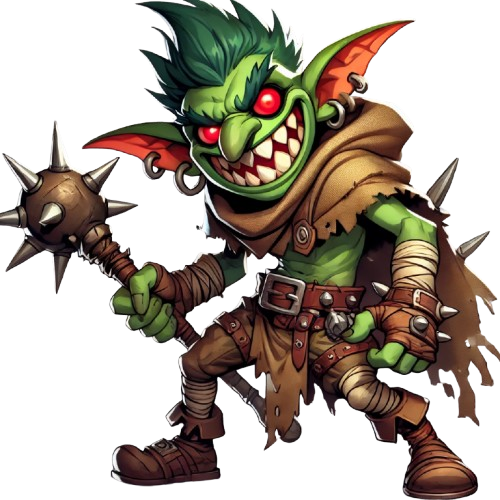
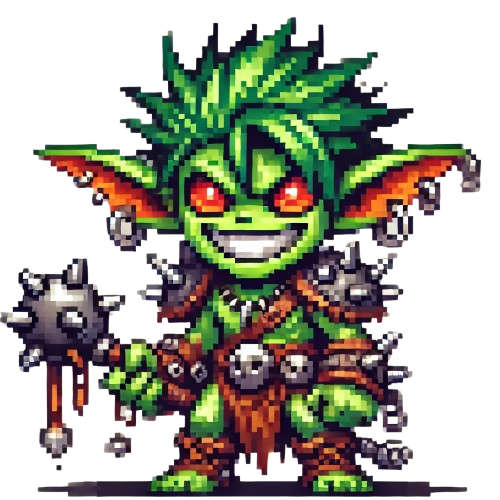
new image & fix bug

diff --git a/public/assets/css/output.css b/public/assets/css/output.css
@@ -614,6 +614,43 @@ video {
   width: 100%;
 }
 
+@keyframes bounce {
+  0%, 100% {
+    transform: translateY(-25%);
+    animation-timing-function: cubic-bezier(0.8,0,1,1);
+  }
+
+  50% {
+    transform: none;
+    animation-timing-function: cubic-bezier(0,0,0.2,1);
+  }
+}
+
+.animate-bounce {
+  animation: bounce 1s infinite;
+}
+
+@keyframes ping {
+  75%, 100% {
+    transform: scale(2);
+    opacity: 0;
+  }
+}
+
+.animate-ping {
+  animation: ping 1s cubic-bezier(0, 0, 0.2, 1) infinite;
+}
+
+@keyframes pulse {
+  50% {
+    opacity: .5;
+  }
+}
+
+.animate-pulse {
+  animation: pulse 2s cubic-bezier(0.4, 0, 0.6, 1) infinite;
+}
+
 .flex-col {
   flex-direction: column;
 }
@@ -667,6 +704,11 @@ video {
   border-color: rgb(0 0 0 / var(--tw-border-opacity, 1));
 }
 
+.border-white {
+  --tw-border-opacity: 1;
+  border-color: rgb(255 255 255 / var(--tw-border-opacity, 1));
+}
+
 .bg-blue-500 {
   --tw-bg-opacity: 1;
   background-color: rgb(59 130 246 / var(--tw-bg-opacity, 1));
@@ -682,13 +724,62 @@ video {
   background-color: rgb(248 113 113 / var(--tw-bg-opacity, 1));
 }
 
+.bg-red-600 {
+  --tw-bg-opacity: 1;
+  background-color: rgb(220 38 38 / var(--tw-bg-opacity, 1));
+}
+
 .bg-slate-900 {
   --tw-bg-opacity: 1;
   background-color: rgb(15 23 42 / var(--tw-bg-opacity, 1));
 }
 
+.bg-\[url\(\'\.\/assets\/image\/decor-main\.gif\'\)\] {
+  background-image: url('./assets/image/decor-main.gif');
+}
+
+.bg-\[url\(\'\.\.\/assets\/image\/decor-main\.gif\'\)\] {
+  background-image: url('../assets/image/decor-main.gif');
+}
+
+.bg-\[url\(\'\.\.\/\/image\/decor-main\.gif\'\)\] {
+  background-image: url('..//image/decor-main.gif');
+}
+
+.bg-\[url\(\'\.\.\/image\/decor-main\.gif\'\)\] {
+  background-image: url('../image/decor-main.gif');
+}
+
+.bg-\[url\(\'\.\.\/image\/decors-main\.gif\'\)\] {
+  background-image: url('../image/decors-main.gif');
+}
+
+.bg-\[url\(\'\.\.\/image\/decors-\.gif\'\)\] {
+  background-image: url('../image/decors-.gif');
+}
+
+.bg-\[url\(\'\.\.\/image\/decors-combat\.gif\'\)\] {
+  background-image: url('../image/decors-combat.gif');
+}
+
+.bg-cover {
+  background-size: cover;
+}
+
+.bg-center {
+  background-position: center;
+}
+
+.bg-repeat {
+  background-repeat: repeat;
+}
+
 .p-3 {
   padding: 0.75rem;
+}
+
+.p-6 {
+  padding: 1.5rem;
 }
 
 .p-7 {
@@ -761,6 +852,10 @@ video {
   --tw-scale-x: 1.25;
   --tw-scale-y: 1.25;
   transform: translate(var(--tw-translate-x), var(--tw-translate-y)) rotate(var(--tw-rotate)) skewX(var(--tw-skew-x)) skewY(var(--tw-skew-y)) scaleX(var(--tw-scale-x)) scaleY(var(--tw-scale-y));
+}
+
+.hover\:cursor-pointer:hover {
+  cursor: pointer;
 }
 
 .hover\:bg-slate-500:hover {

diff --git a/tailwind.config.js b/tailwind.config.js
@@ -6,7 +6,11 @@ module.exports = {
     "./public/**/**/*.php",
     ],
   theme: {
-    extend: {},
+    extend: {
+      'backgroundImage': {
+        'main': "./assets/image/decor-main.gif"
+      }
+    },
   },
   plugins: [],
 }

diff --git a/public/mainpage.php b/public/mainpage.php
@@ -12,13 +12,20 @@ include_once "./assets/headerfooter/header.php";
 
 ?>
 
+<body class="bg-center bg-[url('../image/decor-main.gif')] bg-cover">
+<header class="flex justify-center pt-3">
+    <img class="w-[6%]" src="./assets/image/logo.png" alt="">
+</header>
+
+
+
 <main class="flex w-full items-center">
     <div class="w-[70%] pt-20 justify-start gap-8 flex"> <!-- Partie gauche -->
         <div class="flex flex-col items-center">
-            <img class="w-[50%]" src="<?= $hero->getUrl_img() ?>" alt="<?= htmlspecialchars($hero->getName()) ?>">
-            <p class="text-6xl font-extrabold"><?= htmlspecialchars($hero->getName()) ?></p>
-            <div class="border-2 w-[50%] h-[60px] border-black ">
-                <div id="barrevie" class="bg-green-600 w-[<?= htmlspecialchars($hero->getPv()) ?>%] h-full">
+            <img class="w-[50%] animate-pulse anim-perso" src="<?= $hero->getUrl_img() ?>" alt="<?= htmlspecialchars($hero->getName()) ?>">
+            <p class="text-6xl text-white font-extrabold"><?= htmlspecialchars($hero->getName()) ?></p>
+            <div class="border-2 w-[50%] h-[60px] border-white ">
+                <div id="barrevie" class="bg-green-600 h-full" style="width: <?= htmlspecialchars($hero->getPv()) ?>%">
                 </div>
             </div>
         </div>

diff --git a/public/fighting.php b/public/fighting.php
@@ -2,6 +2,9 @@
 
 require_once '../utils/autoloader.php';
 
+   
+
+
 session_start();
 
 /**
@@ -17,6 +20,13 @@ $monster = $_SESSION['monster'];
 include_once "./assets/headerfooter/header.php";
 
 ?>
+
+<body class="bg-center bg-[url('../image/decors-combat.gif')] bg-cover">
+<header class="flex justify-center pt-3">
+    <img class="w-[6%]" src="./assets/image/logo.png" alt="">
+</header>
+
+   
 
 
 <div class="flex flex-col text-center justify-center">
@@ -36,8 +46,8 @@ include_once "./assets/headerfooter/header.php";
 
    ?>
 
-         <p><?= $hero->getName() ?> à infligé <?= $hitHero ?> dégats</p>
-         <p>Le <?= $monster->getName() ?> à infligé <?= $hitMonster ?> dégats</p>
+         <p class="text-white"><?= $hero->getName() ?> à infligé <?= $hitHero ?> dégats</p>
+         <p class="text-white">Le <?= $monster->getName() ?> à infligé <?= $hitMonster ?> dégats</p>
    
    
    <?php
@@ -56,6 +66,10 @@ if($monster->getPv() < 0){
 
    }
    ?>
+
+<form class="hover:cursor-pointer p-6 bg-red-600 text-white" action="../process/processChangeHp.php" method="post">
+<input class="w-full" type="submit" value="Retour a la base">
+</form>
 
 </div>
 

diff --git a/src/Repositories/HeroRepository.php b/src/Repositories/HeroRepository.php
@@ -61,4 +61,14 @@ class HeroRepository extends AbstractRepository
 
         return $heroInstance;
     }
+
+
+    public function setHp(int $hp, string $name){
+        $sql = "UPDATE hero SET pv = :pv WHERE user_name = :name";
+        $stmt = $this->pdo->prepare($sql);
+        $stmt->bindValue(':name', $name);
+        $stmt->bindValue(':pv', $hp);
+        $stmt->execute();
+    }
+
 }

diff --git a/public/choiceHero.php b/public/choiceHero.php
@@ -9,7 +9,13 @@ $heroes = $heroRepository->findAll();
 
 ?>
 
-<main class="w-full flex flex-wrap justify-center h-[700px]">
+<body>
+<header class="flex justify-center pt-3">
+    <img class="w-[6%]" src="./assets/image/logo.png" alt="">
+</header>
+
+
+<main class="w-full flex flex-wrap gap-8 justify-center h-[700px]">
 
 <?php 
 /**

diff --git a/process/processChangeHp.php b/process/processChangeHp.php
@@ -1,0 +1,14 @@
+<?php
+require_once '../utils/autoloader.php';
+
+session_start();
+
+
+/**
+ * @var Hero $hero
+ */
+$hero = $_SESSION['hero'];
+$heroRepo = new HeroRepository();
+$heroRepo->setHp($hero->getPv(), $hero->getName());
+
+header("Location: ../public/mainpage.php");

diff --git a/public/assets/headerfooter/header.php b/public/assets/headerfooter/header.php
@@ -8,8 +8,4 @@
     <link rel="stylesheet" href="./assets/css/output.css">
     
 </head>
-<body>
-<header class="flex justify-center pt-3">
-    <img class="w-[6%]" src="./assets/image/logo.png" alt="">
-</header>
 
